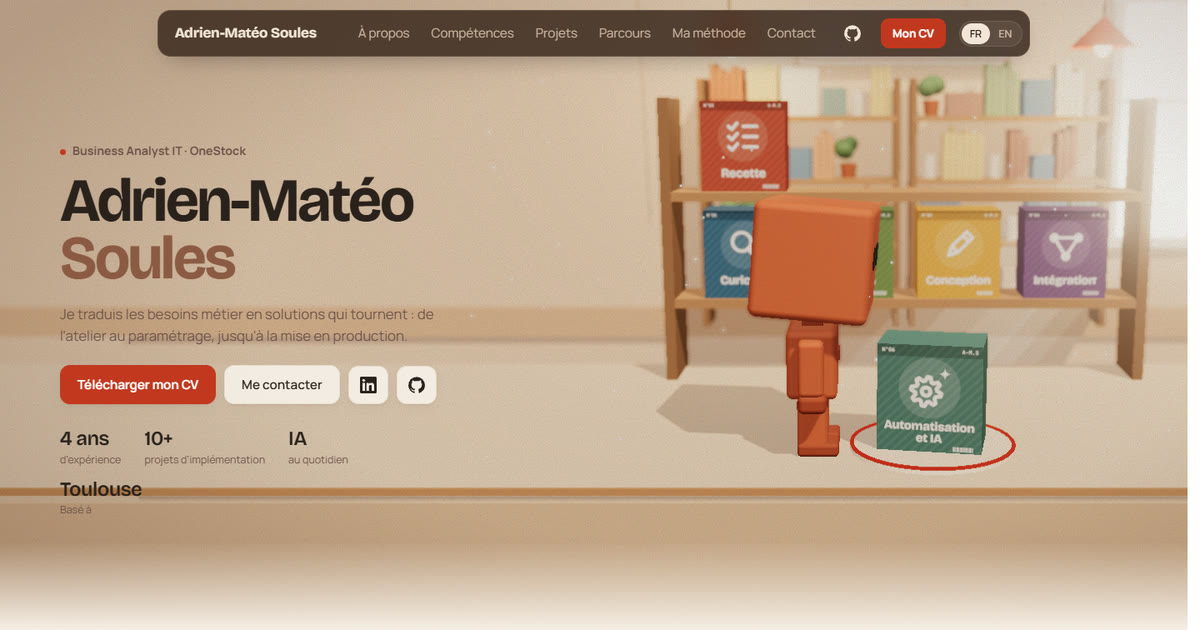
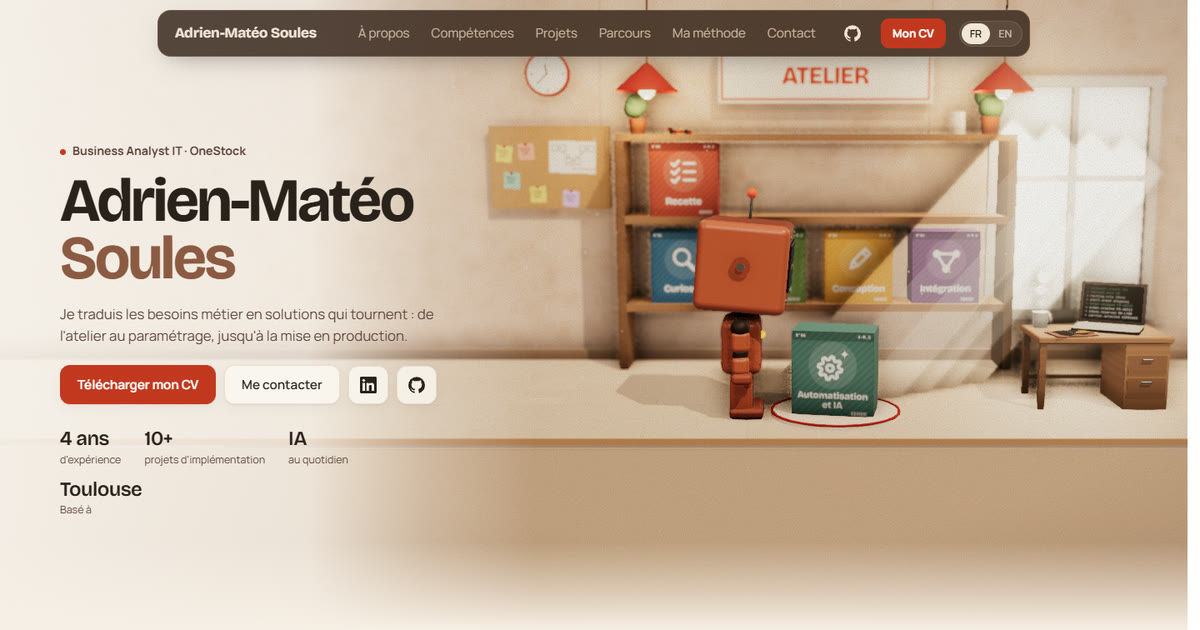
Accueil 3D : rendu haute qualité et skill « atelier 3D »
- Ordi (par défaut, ?lq pour couper) : ombres de contact (GTAO),
  lissage SMAA, lumière douce venant de la fenêtre (RectAreaLight),
  brume et halo réduits pour plus de contraste.
- Robot en peinture laquée (clearcoat), arrondis et articulations
  plus lisses.
- Matières : parquet sur le comptoir, mur en enduit, bois veiné.
- Téléphone : version allégée inchangée.
- images/og-image.jpg et images/site-hero.jpg refaites.
- .claude/skills/atelier-3d : règles et méthode de la scène (texte
  jamais couvert, pas de vide, palette, qualité, vérifications).

diff --git a/js/comptoir.js b/js/comptoir.js
@@ -6,6 +6,9 @@ import { RenderPass } from "three/addons/postprocessing/RenderPass.js";
 import { BokehPass } from "three/addons/postprocessing/BokehPass.js";
 import { UnrealBloomPass } from "three/addons/postprocessing/UnrealBloomPass.js";
 import { OutputPass } from "three/addons/postprocessing/OutputPass.js";
+import { GTAOPass } from "three/addons/postprocessing/GTAOPass.js";
+import { SMAAPass } from "three/addons/postprocessing/SMAAPass.js";
+import { RectAreaLightUniformsLib } from "three/addons/lights/RectAreaLightUniformsLib.js";
 
 /* Accueil : le comptoir des mots en 3D (Three.js + GSAP).
    Le robot range sur l'étagère les mots-clés de hero.words (js/content.js, FR/EN) ; ils arrivent un par un sur le comptoir.
@@ -28,6 +31,8 @@ const RM = matchMedia("(prefers-reduced-motion: reduce)").matches;
 
 /* téléphone ou tablette : pas de flou ni de halo, trop coûteux */
 const LITE = innerWidth < 760 || matchMedia("(pointer: coarse)").matches;
+/* ordi : haute qualité (ombres de contact, lissage, lumière de fenêtre, matières) ; ?lq pour la couper */
+const HQ = !LITE && !new URLSearchParams(location.search).has("lq");
 let renderer;
 try { renderer = new THREE.WebGLRenderer({ antialias: true }); }
 catch (e) { section.classList.add("no-webgl"); throw e; } /* sans WebGL : le texte reste seul sur le fond */
@@ -41,7 +46,7 @@ const ANISO = renderer.capabilities.getMaxAnisotropy();
 
 const scene = new THREE.Scene();
 scene.background = new THREE.Color(P.bg);
-scene.fog = new THREE.Fog(P.bg, LITE ? 10 : 12, 30);
+/* brume légère, seulement au loin : on garde le contraste */
 /* reflets doux sur toutes les matières */
 scene.environment = new THREE.PMREMGenerator(renderer).fromScene(new RoomEnvironment(), .04).texture;
 scene.environmentIntensity = .18;
@@ -52,17 +57,19 @@ let composer = null, bokeh = null;
 if (!LITE) {
   composer = new EffectComposer(renderer);
   composer.addPass(new RenderPass(scene, camera));
+  if (HQ) { const ao = new GTAOPass(scene, camera, 1024, 640); ao.updateGtaoMaterial({ radius: .5, distanceExponent: 1, thickness: 2, scale: 2 }); ao.blendIntensity = 1; composer.addPass(ao); }
   bokeh = new BokehPass(scene, camera, { focus: 7, aperture: .0016, maxblur: .008 });
   composer.addPass(bokeh);
-  composer.addPass(new UnrealBloomPass(new THREE.Vector2(512, 512), .3, .5, 1.4));
+  composer.addPass(new UnrealBloomPass(new THREE.Vector2(512, 512), .18, .45, 1.6));
+  if (HQ) composer.addPass(new SMAAPass(1024, 640));
   composer.addPass(new OutputPass());
 }
 
 /* lumière de petit matin : soleil rasant venant de la fenêtre à droite */
-scene.add(new THREE.HemisphereLight(P.hemi[0], P.hemi[1], P.hemi[2]));
-const sunLight = new THREE.DirectionalLight(P.sun[0], P.sun[1]);
+scene.add(new THREE.HemisphereLight(P.hemi[0], P.hemi[1], HQ ? .62 : P.hemi[2]));
+const sunLight = new THREE.DirectionalLight(P.sun[0], HQ ? 2.1 : P.sun[1]);
 sunLight.position.set(5, 7, 5); sunLight.target.position.set(1.2, 0, 0);
-sunLight.castShadow = true; sunLight.shadow.mapSize.set(2048, 2048); sunLight.shadow.bias = -.0005; sunLight.shadow.radius = 4;
+sunLight.castShadow = true; sunLight.shadow.mapSize.set(HQ ? 4096 : 2048, HQ ? 4096 : 2048); sunLight.shadow.bias = -.0005; sunLight.shadow.radius = 4;
 Object.assign(sunLight.shadow.camera, { left: -4, right: 6, top: 5, bottom: -3, near: 1, far: 20 });
 scene.add(sunLight, sunLight.target);
 const fill = new THREE.DirectionalLight(P.fill, .6); fill.position.set(-5, 3, 4); scene.add(fill);
@@ -122,11 +129,23 @@ function drawIcon(ctx, i, cx, cy, s) {
 }
 
 /* ---------- décor : comptoir et étagère en bois clair ---------- */
-mesh(new THREE.BoxGeometry(16, .14, 2.8), std(P.counter[0], { roughness: .55 }), 1.2, -.07, .2);
+/* le dessus du comptoir en parquet clair */
+const parquet = canvasTex(512, 512, (ctx, W, H) => {
+  ctx.fillStyle = P.counter[0]; ctx.fillRect(0, 0, W, H);
+  for (let y = 0; y < H; y += 64) for (let x = (y / 64) % 2 * -96; x < W; x += 192) {
+    ctx.fillStyle = "rgba(140,95,60," + (.04 + ((x * 7 + y * 3) % 5) * .012) + ")"; ctx.fillRect(x + 1, y + 1, 190, 62);
+    ctx.fillStyle = "rgba(120,80,50,.18)"; ctx.fillRect(x, y, 192, 1.5); ctx.fillRect(x, y, 1.5, 64);
+  }
+});
+parquet.redraw(); parquet.wrapS = parquet.wrapT = THREE.RepeatWrapping; parquet.repeat.set(8, 1.4);
+mesh(new THREE.BoxGeometry(16, .14, 2.8), std("#fff", { roughness: .5, map: parquet }), 1.2, -.07, .2);
 mesh(new THREE.BoxGeometry(16, 1.8, .12), std(P.counter[1]), 1.2, -.98, 1.56);
 mesh(new THREE.BoxGeometry(16, .04, .04), std(P.counter[2]), 1.2, -.02, 1.6);
 const SHELF_Z = -.95, BOARDS = [.62, 1.42], SLOT_X = [.45, 1.25, 2.05, 2.85];
-const wood = std(P.wood[0], { roughness: .6 }), woodDark = std(P.wood[1]);
+/* en haute qualité, le bois a une veinure */
+const grain = HQ ? canvasTex(256, 256, (ctx, W, H) => { ctx.fillStyle = "#fff"; ctx.fillRect(0, 0, W, H); for (let y = 0; y < H; y += 2) { ctx.fillStyle = "rgba(90,55,30," + (.04 + .08 * Math.abs(Math.sin(y * .09 + Math.sin(y * .013) * 4))) + ")"; ctx.fillRect(0, y, W, 2); } }) : null;
+if (grain) { grain.redraw(); grain.wrapS = grain.wrapT = THREE.RepeatWrapping; grain.repeat.set(2, 1); }
+const wood = std(P.wood[0], { roughness: .6, map: grain }), woodDark = std(P.wood[1], { map: grain });
 for (const y of BOARDS) mesh(new THREE.BoxGeometry(3.5, .07, .5), wood, 1.65, y - .035, SHELF_Z);
 for (const x of [-.12, 3.42]) mesh(new THREE.BoxGeometry(.08, 2.1, .5), woodDark, x, 1.05, SHELF_Z);
 const PAD = new THREE.Vector3(1.75, .015, .9);
@@ -140,7 +159,13 @@ let seed = 11; const rnd = () => (seed = (seed * 16807) % 2147483647) / 21474836
 const pick = a => a[Math.floor(rnd() * a.length)];
 /* le mur est juste derrière l'étagère des mots : plus de vide entre le comptoir et le fond */
 const WALL_Z = SHELF_Z - .32;
-const wall = new THREE.Mesh(new THREE.PlaneGeometry(30, 14), std(P.wall, { roughness: .95 }));
+/* mur en enduit, légèrement irrégulier */
+const plaster = canvasTex(512, 512, (ctx, W, H) => {
+  ctx.fillStyle = P.wall; ctx.fillRect(0, 0, W, H);
+  for (let k = 0; k < 2600; k++) { const r = 2 + Math.random() * 10; ctx.fillStyle = Math.random() < .5 ? "rgba(255,245,235,.05)" : "rgba(150,100,70,.04)"; ctx.beginPath(); ctx.arc(Math.random() * W, Math.random() * H, r, 0, Math.PI * 2); ctx.fill(); }
+});
+plaster.redraw(); plaster.wrapS = plaster.wrapT = THREE.RepeatWrapping; plaster.repeat.set(6, 3);
+const wall = new THREE.Mesh(new THREE.PlaneGeometry(30, 14), std("#fff", { roughness: .95, map: plaster }));
 wall.position.set(1, 3, WALL_Z); wall.receiveShadow = true; scene.add(wall);
 mesh(new THREE.BoxGeometry(30, .3, .06), std(P.base), 1, -.05, WALL_Z + .03);
 
@@ -159,13 +184,19 @@ mesh(new THREE.CylinderGeometry(.07, .07, .2, 16), glassMat, 2.95, TOP_Y + .16, 
 const WIN = { x: 4.1, y: 1.55, w: 1.5, h: 2.2 };
 const glass = new THREE.Mesh(new THREE.PlaneGeometry(WIN.w, WIN.h), new THREE.MeshStandardMaterial({ color: P.win[0], emissive: P.win[1], emissiveIntensity: P.win[2] }));
 glass.position.set(WIN.x, WIN.y, WALL_Z + .01); scene.add(glass);
+/* la lumière de la fenêtre : une source large et douce, tournée vers l'étagère et le robot */
+if (HQ) {
+  RectAreaLightUniformsLib.init();
+  const winLight = new THREE.RectAreaLight("#FFE4C4", 4.5, WIN.w, WIN.h);
+  winLight.position.set(WIN.x, WIN.y, WALL_Z + .15); winLight.lookAt(WIN.x - 2.2, .6, 1.4); scene.add(winLight);
+}
 for (const [w, h, x, y] of [[WIN.w + .16, .1, 0, WIN.h / 2], [WIN.w + .16, .1, 0, -WIN.h / 2], [.1, WIN.h, -WIN.w / 2, 0], [.1, WIN.h, WIN.w / 2, 0], [.06, WIN.h, 0, 0], [WIN.w, .06, 0, .2]])
   mesh(new THREE.BoxGeometry(w, h, .08), std(P.frame), WIN.x + x, WIN.y + y, WALL_Z + .05);
 const rayTex = canvasTex(64, 256, (ctx, W, H) => { const g = ctx.createLinearGradient(0, 0, 0, H); g.addColorStop(0, "rgba(" + P.ray + ",.9)"); g.addColorStop(1, "rgba(" + P.ray + ",0)"); ctx.fillStyle = g; ctx.fillRect(0, 0, W, H); });
 rayTex.redraw();
 const rays = [];
 for (let k = 0; k < 4; k++) {
-  const ray = new THREE.Mesh(new THREE.PlaneGeometry(.5 + k * .12, 6), new THREE.MeshBasicMaterial({ map: rayTex, transparent: true, opacity: .16, depthWrite: false, blending: THREE.AdditiveBlending, side: THREE.DoubleSide }));
+  const ray = new THREE.Mesh(new THREE.PlaneGeometry(.5 + k * .12, 6), new THREE.MeshBasicMaterial({ map: rayTex, transparent: true, opacity: .1, depthWrite: false, blending: THREE.AdditiveBlending, side: THREE.DoubleSide }));
   ray.position.set(WIN.x - 1.4 - k * .35, WIN.y - 1.6, WALL_Z + 1.2 + k * .2); ray.rotation.set(-.25, .2, -.75); scene.add(ray); rays.push(ray);
 }
 
@@ -221,17 +252,19 @@ const TERRA = P.robot[0];
 const HOME = { x: -.25, z: .95, rot: .55 }, WAIT = { x: PAD.x - .72, z: PAD.z };
 const robot = new THREE.Group(); robot.position.set(HOME.x, 0, HOME.z); robot.rotation.y = HOME.rot; scene.add(robot);
 const body = new THREE.Group(); robot.add(body);
-const terra = std(TERRA, { roughness: .55, metalness: .1 }), terraDark = std(P.robot[1], { roughness: .6 });
+/* peinture laquée : un vernis léger qui accroche la lumière */
+const terra = new THREE.MeshPhysicalMaterial({ color: TERRA, roughness: .42, metalness: .05, clearcoat: .7, clearcoatRoughness: .22 });
+const terraDark = new THREE.MeshPhysicalMaterial({ color: P.robot[1], roughness: .5, clearcoat: .4, clearcoatRoughness: .3 });
 const joint = std("#3A2A22", { roughness: .45, metalness: .2 }), steel = std("#A9A49C", { roughness: .3, metalness: .75 });
 const glow = color => new THREE.MeshStandardMaterial({ color, emissive: color, emissiveIntensity: 2.4 });
-const cyl = (r, h, n = 20) => new THREE.CylinderGeometry(r, r, h, n);
+const cyl = (r, h, n = 32) => new THREE.CylinderGeometry(r, r, h, n);
 
 const legs = [-.13, .13].map(x => {
   const g = new THREE.Group(); g.position.set(x, .44, 0); robot.add(g);
-  mesh(new THREE.SphereGeometry(.075, 16, 12), joint, 0, 0, 0, g);                       // hanche
-  mesh(new RoundedBoxGeometry(.19, .36, .21, 2, .05), terra, 0, -.2, 0, g);
+  mesh(new THREE.SphereGeometry(.075, 28, 20), joint, 0, 0, 0, g);                       // hanche
+  mesh(new RoundedBoxGeometry(.19, .36, .21, 4, .05), terra, 0, -.2, 0, g);
   mesh(cyl(.085, .04), joint, 0, -.19, 0, g);                                            // genou
-  mesh(new RoundedBoxGeometry(.25, .1, .32, 2, .04), terraDark, 0, -.39, .045, g);       // pied
+  mesh(new RoundedBoxGeometry(.25, .1, .32, 4, .04), terraDark, 0, -.39, .045, g);       // pied
   return g;
 });
 
@@ -242,11 +275,11 @@ const heart = mesh(new THREE.SphereGeometry(.035, 16, 12), glow("#F0B429"), 0, .
 
 const arms = [-1, 1].map(s => {
   const g = new THREE.Group(); g.position.set(s * .36, .88, 0); body.add(g);
-  mesh(new THREE.SphereGeometry(.09, 16, 12), joint, 0, 0, 0, g);                        // épaule
-  mesh(new RoundedBoxGeometry(.15, .2, .17, 2, .05), terra, 0, -.12, 0, g);
+  mesh(new THREE.SphereGeometry(.09, 28, 20), joint, 0, 0, 0, g);                        // épaule
+  mesh(new RoundedBoxGeometry(.15, .2, .17, 4, .05), terra, 0, -.12, 0, g);
   mesh(cyl(.07, .05), joint, 0, -.24, 0, g);                                             // coude
-  mesh(new RoundedBoxGeometry(.14, .17, .16, 2, .05), terra, 0, -.34, 0, g);
-  mesh(new RoundedBoxGeometry(.17, .1, .19, 2, .04), terraDark, 0, -.46, .01, g);        // main
+  mesh(new RoundedBoxGeometry(.14, .17, .16, 4, .05), terra, 0, -.34, 0, g);
+  mesh(new RoundedBoxGeometry(.17, .1, .19, 4, .04), terraDark, 0, -.46, .01, g);        // main
   mesh(new RoundedBoxGeometry(.05, .09, .07, 1, .02), terraDark, s * -.075, -.52, .06, g); // pouce
   return g;
 });
@@ -327,7 +360,7 @@ const hourHand = hand(.1, .014), minuteHand = hand(.15, .009);
 /* un petit bureau sur le côté, avec l'ordinateur posé dessus */
 const DESK = { x: 3.85, z: .5, h: .58, w: 1.05, d: .62 };
 /* plateau, pieds, caisson à tiroirs à droite, traverse */
-mesh(new RoundedBoxGeometry(DESK.w, .05, DESK.d, 2, .015), wood, DESK.x, DESK.h - .025, DESK.z);
+mesh(new RoundedBoxGeometry(DESK.w, .05, DESK.d, 4, .015), wood, DESK.x, DESK.h - .025, DESK.z);
 for (const [dx, dz] of [[-.48, -.26], [-.48, .26]]) mesh(new THREE.BoxGeometry(.05, DESK.h - .05, .05), woodDark, DESK.x + dx, (DESK.h - .05) / 2, DESK.z + dz);
 mesh(new THREE.BoxGeometry(.34, DESK.h - .05, DESK.d - .04), wood, DESK.x + .33, (DESK.h - .05) / 2, DESK.z);
 for (const y of [.12, .3]) {

diff --git a/.claude/skills/atelier-3d/SKILL.md b/.claude/skills/atelier-3d/SKILL.md
@@ -1,0 +1,40 @@
+---
+name: atelier-3d
+description: Règles et méthode pour modifier la scène 3D de l'accueil du portfolio (le « comptoir des mots » : atelier abricot, robot artisan qui range des mots-clés sur une étagère). À charger avant toute modification de js/comptoir.js, css/comptoir.css ou du haut de page d'index.html : décor, robot, lumière, qualité de rendu, animations, cadrage, version téléphone, captures de vérification.
+---
+
+# Atelier 3D de l'accueil
+
+La scène du haut de page est en Three.js (0.170, importmap dans `index.html`) et GSAP 3.12.5. Tout est dans `js/comptoir.js` (module) et `css/comptoir.css`. Les mots-clés viennent de `window.CONTENT[lang].hero.words` (`js/content.js`, FR et EN, même ordre que les pictogrammes de `drawIcon`).
+
+## Règles qui ne bougent pas
+
+1. **Le texte d'abord.** Le robot et la scène ne passent jamais devant le nom, la phrase, le bouton CV. Le calcul est dans `resize()` : la caméra se décale (`setViewOffset`) puis recule si la scène sort à droite. Tout nouvel objet loin à droite doit être ajouté aux points testés (`sceneRight`, `deskRight`). Un voile crème (`.comptoir-veil`) garde le texte lisible : ne pas le retirer, ne pas mettre d'objet chargé derrière le texte.
+2. **Pas de vide.** Le mur (`WALL_Z = SHELF_Z - .32`) est juste derrière l'étagère des mots. Tout objet est posé sur une surface (comptoir, plateau, bureau) ou fixé au mur. Rien ne flotte, rien ne se chevauche (vérifier les largeurs : étagère x −0,12 → 3,42 ; bureau `DESK`).
+3. **Palette Abricot.** Constantes `P` en tête de fichier : mur `#EFCFB6`, bois `#B98A62`, robot terre cuite `#C8663F`, accent brique `#C2381F`, encre `#2A211C`. Boîtes : `COLORS`. Pas de bleu-gris, pas de noir pur.
+4. **Robot artisan.** Silhouette cube terre cuite, peinture laquée (`MeshPhysicalMaterial` avec `clearcoat`), écran-visière, yeux dessinés sur `eyeTex` avec des humeurs (`setMood` : neutral, focus, happy, surprise), antenne et voyant lumineux. Pas de tablier, pas de plaque sur la tête (refusés par le propriétaire du site).
+5. **Pas de glyphes Unicode** comme icônes : les pictogrammes sont dessinés au canvas.
+6. **Accessibilité.** `prefers-reduced-motion` : étagère déjà remplie, rien ne bouge. La région `#comptoir-live` annonce les mots. La scène est `aria-hidden`.
+
+## Qualité et performance
+
+- `LITE` (largeur < 760 px ou écran tactile) : pas de post-traitement, densité de pixels 1,5, animations du décor ralenties ou coupées (vapeur, logs plus lents).
+- `HQ` (ordi, sauf `?lq`) : ombres de contact `GTAOPass`, lissage `SMAAPass`, flou de profondeur `BokehPass` qui suit le robot, halo `UnrealBloomPass` discret (force ≈ 0,18), lumière de fenêtre `RectAreaLight`, bois veiné, mur en enduit, parquet.
+- Garder la brume légère (Fog 16 → 40) et le halo faible : au-delà, l'image devient laiteuse.
+- La scène ne se redessine pas hors de l'écran (`IntersectionObserver`). Ne pas casser ce garde-fou.
+- Les textures canvas se dessinent après le chargement des polices (`redraw()` en fin de fichier) : toute nouvelle texture texte doit y être ajoutée.
+
+## Vérifier avant de montrer
+
+Serveur local : `.claude/launch.json`, configuration `site` (port 8765).
+
+- **Captures fiables** (le panneau navigateur peut être masqué) : Edge sans fenêtre, avec `?demo=5` qui fige la scène (5 mots rangés, le 6e sur le comptoir) :
+  `msedge --headless=new --use-angle=swiftshader --enable-unsafe-swiftshader --hide-scrollbars --window-size=1440,900 --virtual-time-budget=9000 --screenshot=<fichier> "http://localhost:8765/index.html?lang=fr&demo=5"`
+  Faire aussi 1100×760 (largeur moyenne) et 500×1000 (téléphone ; le mode sans fenêtre impose ~500 px minimum).
+- **Comparer avant / après** au même cadrage : rognage et empilement avec FFmpeg (`crop`, `vstack`), puis envoyer l'image.
+- **Tester la boucle** quand le panneau est masqué : dans la console, faire avancer GSAP à la main (`gsap.ticker.tick()` en boucle par paquets de 25–30 s) et suivre `#comptoir-live` ; attendre les 8 mots puis la pause café, sans erreur.
+- `--force-prefers-reduced-motion` pour vérifier la version sans animation.
+
+## Façon de travailler avec le propriétaire
+
+Proposer 2 pistes avec leurs compromis pour chaque décision visuelle et le laisser choisir. Montrer un exemple ou une comparaison plutôt qu'une description quand il ne voit pas la différence. Coder sur une branche, ouvrir une PR (`gh`), et lui laisser la validation.
